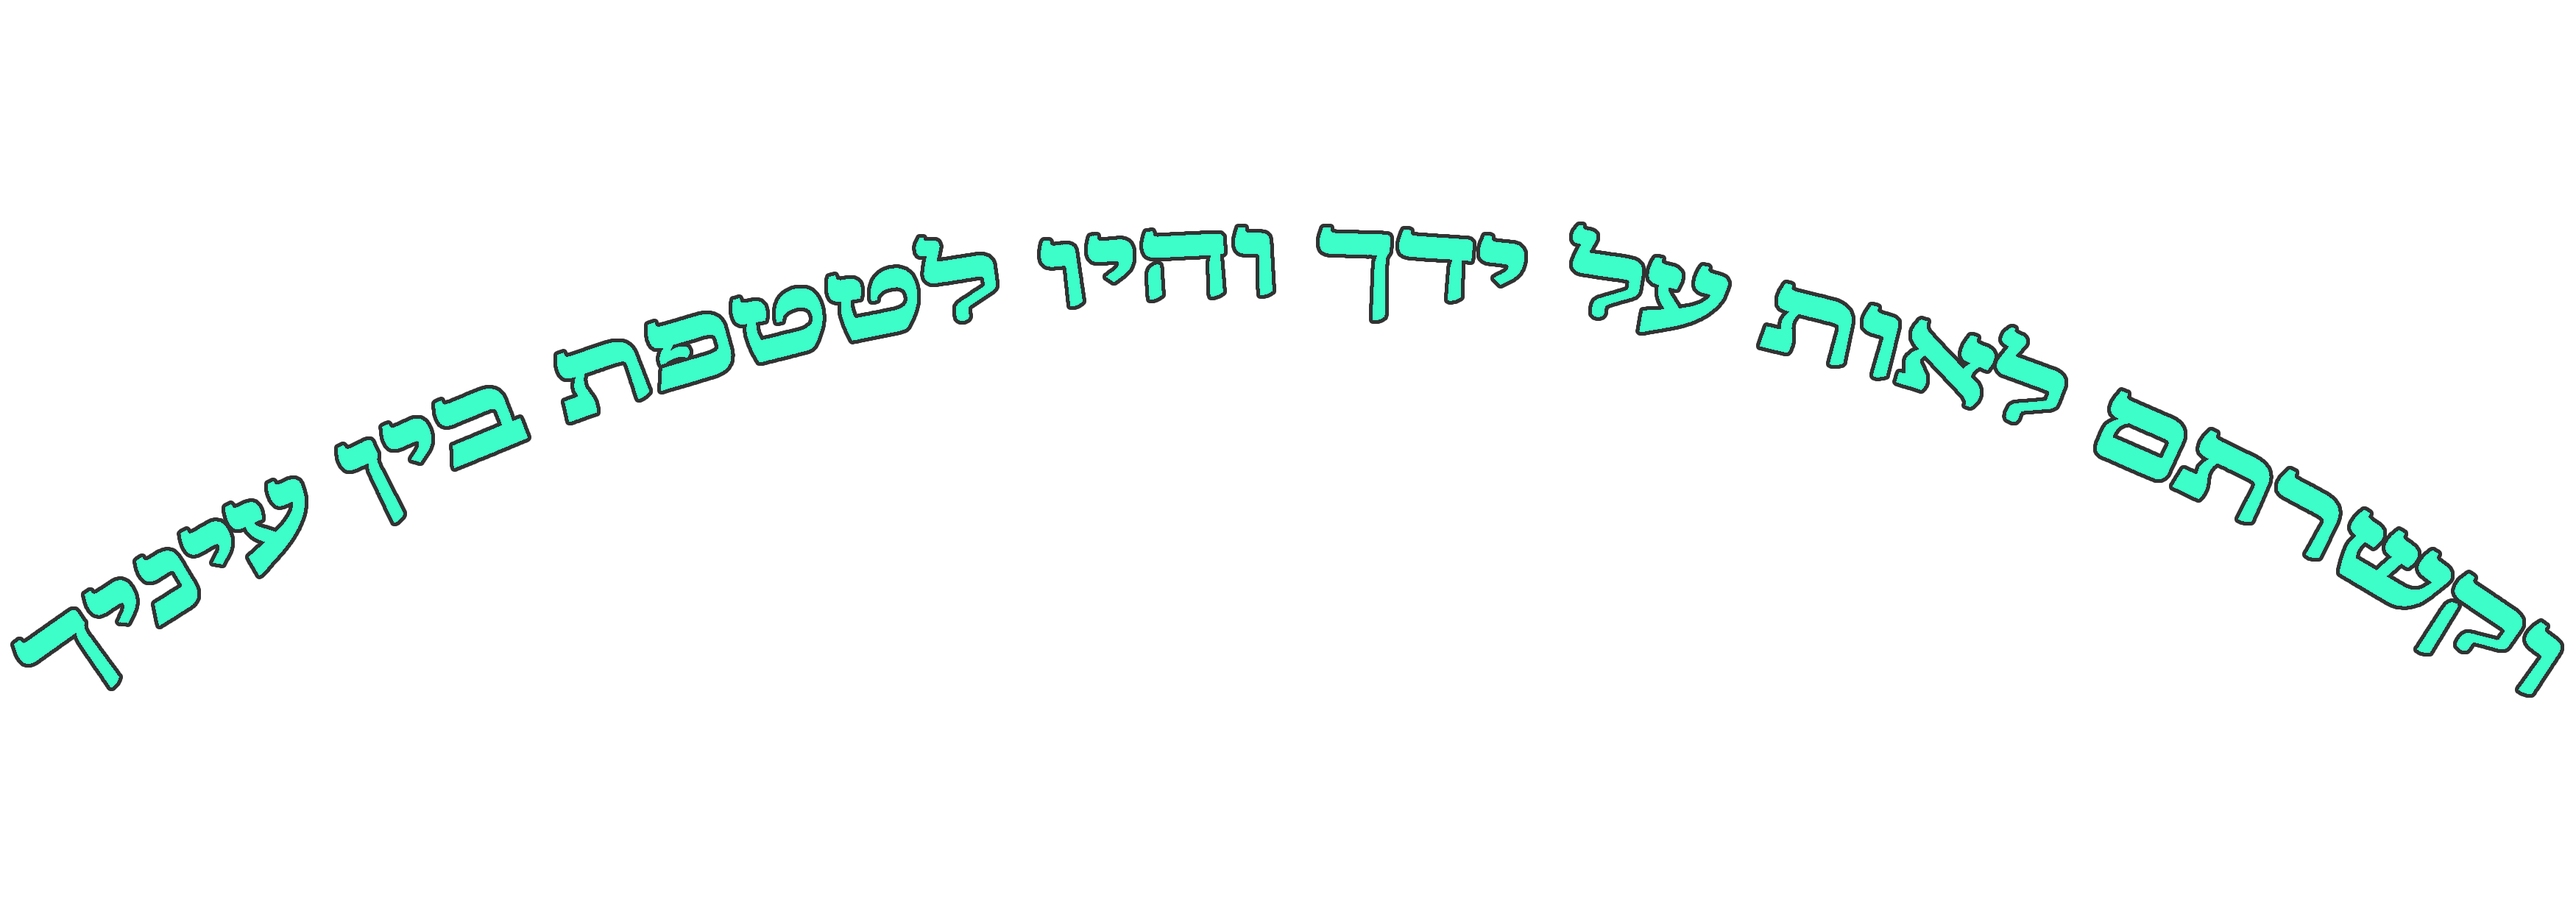
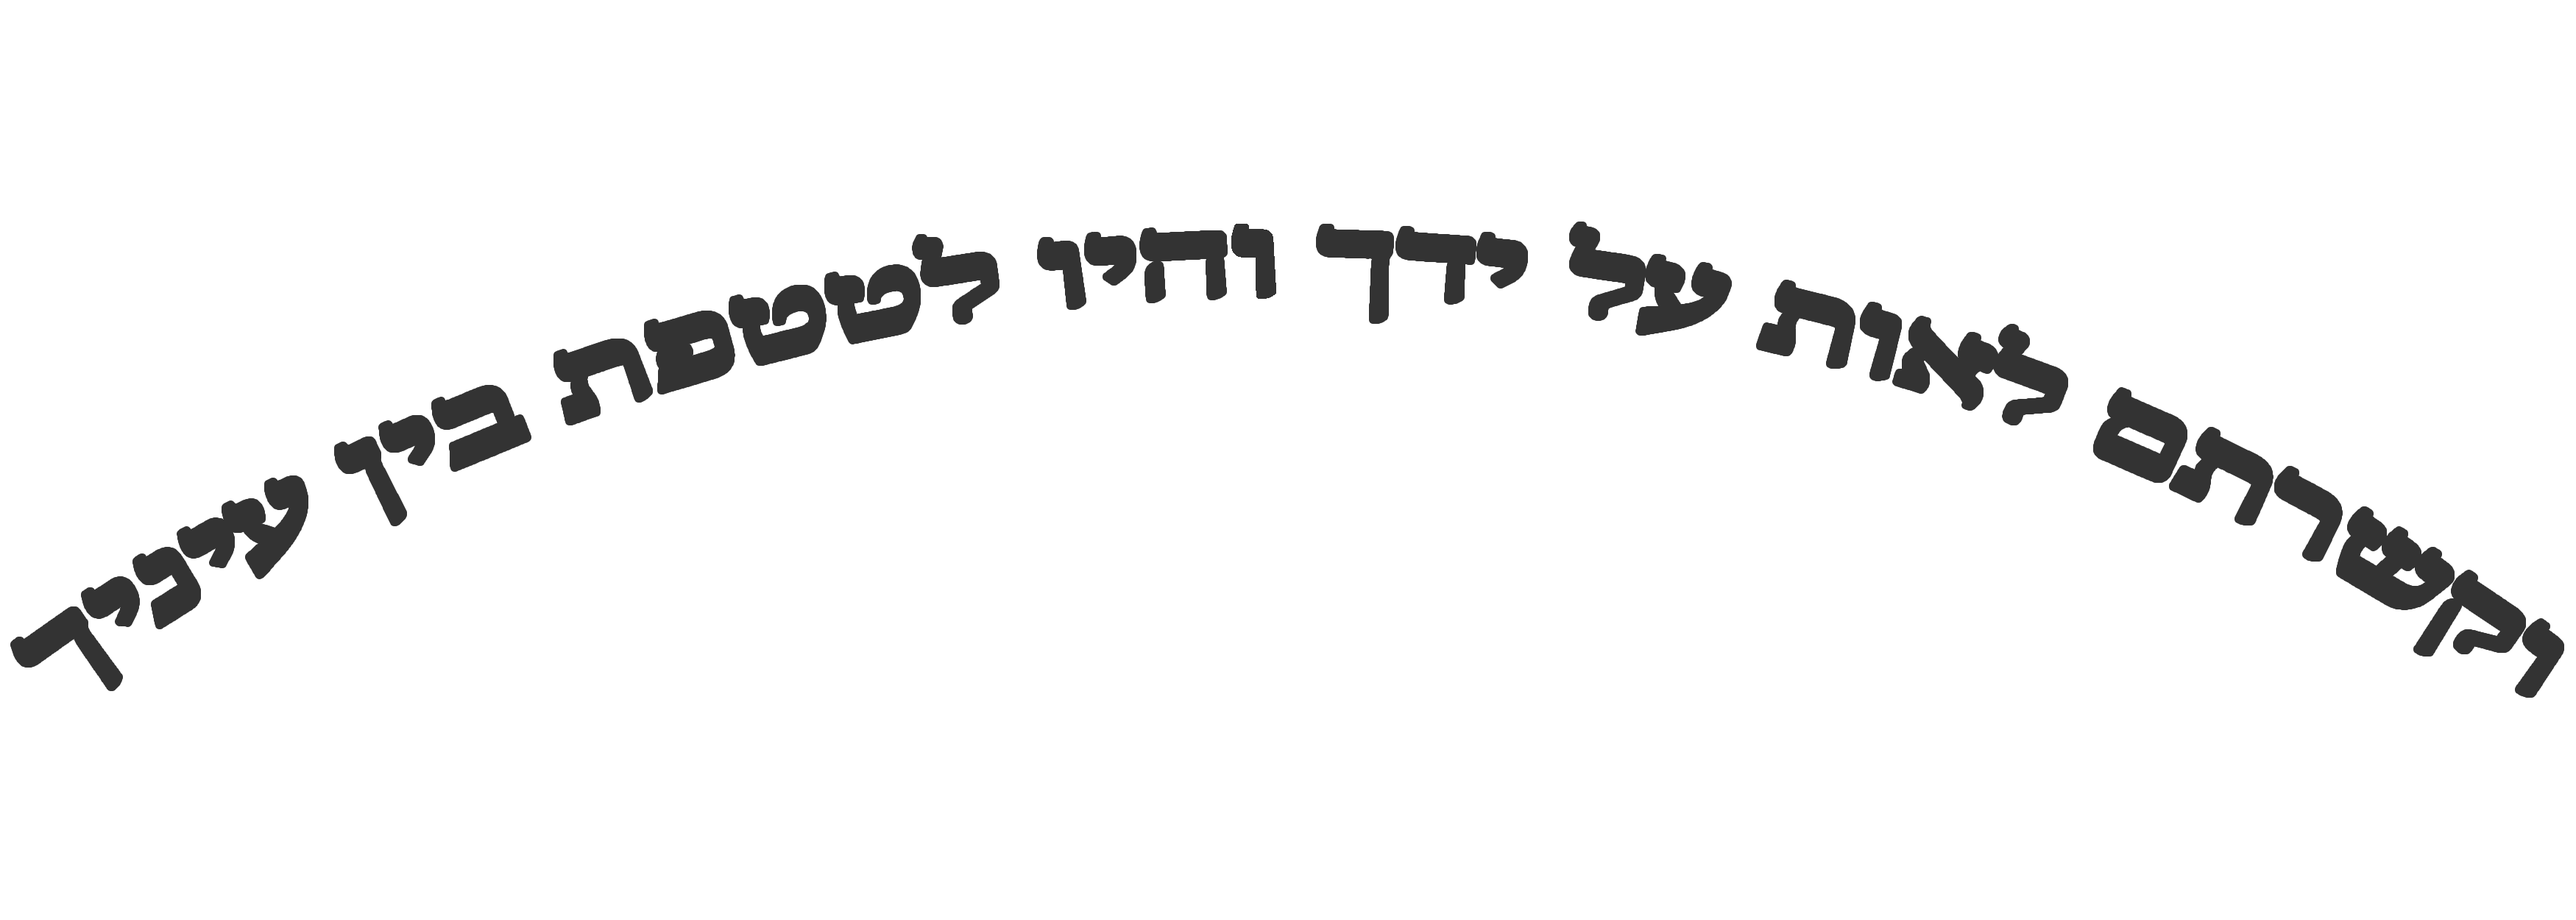
changement de preview

Changed region(s): [[0.0, 0.2496, 0.9966, 0.7488]]

diff --git a/css/mobile.css b/css/mobile.css
@@ -12,15 +12,28 @@
 #overlay img{
     width: 80%;
     height: auto;
+
     margin-bottom: 0.5rem;
 
 }
 
+#divOverlay{
+    display: flex;
+    align-items: center;
+    justify-content: center;
+    flex-direction: column;
+}
+
 .txtOverlay{
     font-family: "tag", sans-serif;
-    font-size: 2.5rem;
+    font-size: 4rem;
     color: #000000;
-    margin-bottom: 1.2rem;
+    margin-bottom: 2rem;
+    text-shadow:
+            -3px -3px 0 #ffffff,
+            3px -3px 0 #ffffff,
+            -3px  3px 0 #ffffff,
+            3px  3px 0 #ffffff; /* Bordure noire */
 }
 
 .btnLink {
@@ -30,7 +43,7 @@
     color: #000000;
     border-radius: 0.2rem;
     margin: 2.2rem;
-    border: 2px solid #333333; /* Ajoute une bordure blanche de 2 pixels */
+    border: 2px solid #282828; /* Ajoute une bordure blanche de 2 pixels */
     text-decoration: none;
     background-color: transparent;
     transition: background-color 0.5s ease, color 0.5s ease, border-color 0.5s ease, transform 0.5s ease;
@@ -38,8 +51,8 @@
 
 .btnLink:hover {
     background-color: #ffffff;
-    color: #333333;
-    border: 2px solid #333333; /* Ajoute une bordure noire de 2 pixels */
+    color: #282828;
+    border: 2px solid #282828; /* Ajoute une bordure noire de 2 pixels */
     transform: scale(1.05); /* Légère mise à l'échelle pour un effet de grossissement */
 }
 
@@ -54,7 +67,7 @@
 }
 .elementDecompte{
     margin-right: 1rem;
-    border: 3px solid #00FF98FF;
+    border: 3px solid #282828;
     border-radius: 10px;
     width: 70px; /* Largeur fixe pour une taille uniforme */
     height: 70px; /* Hauteur fixe pour une taille uniforme */
@@ -64,7 +77,7 @@
     flex-direction: column;
 }
 .elementDecompte2{
-    border: 3px solid #00FF98FF;
+    border: 3px solid #282828;
     border-radius: 10px;
     width: 70px; /* Largeur fixe pour une taille uniforme */
     height: 70px; /* Hauteur fixe pour une taille uniforme */
@@ -148,12 +161,12 @@
 .txtItalic {
     font-family: tag3 , sans-serif;
     font-size: 3rem;
-    color: rgba(0, 255, 152);
+    color: #282828;
     text-shadow:
-            -2px -2px 0 #333333,
-            2px -2px 0 #333333,
-            -2px  2px 0 #333333,
-            2px  2px 0 #333333; /* Bordure noire */
+            -2px -2px 0 #ffffff,
+            2px -2px 0 #ffffff,
+            -2px  2px 0 #ffffff,
+            2px  2px 0 #ffffff; /* Bordure noire */
     margin-bottom: 1.5rem;
 }
 
@@ -162,8 +175,13 @@
     font-family: tagText, sans-serif;
     font-style: italic;
     font-size: 6.5vw;
-    color: #333333;
+    color: #282828;
     margin-bottom: 0.6rem;
+    text-shadow:
+            -2px -2px 0 #ffffff,
+            2px -2px 0 #ffffff,
+            -2px  2px 0 #ffffff,
+            2px  2px 0 #ffffff; /* Bordure noire */
 
 }
 
@@ -173,7 +191,12 @@
     font-weight: bold;
     font-size: 1.6rem;
     margin-bottom: 0.5rem;
-    color: #333333;
+    color: #282828;
+    text-shadow:
+            -2px -2px 0 #ffffff,
+            2px -2px 0 #ffffff,
+            -2px  2px 0 #ffffff,
+            2px  2px 0 #ffffff; /* Bordure noire */
 }
 
 .titre {
@@ -183,16 +206,16 @@
     flex-direction: column;
     font-family: "tag3", sans-serif;
     font-size: 20vw;
-    color: #00FF98FF;
+    color: #282828;
     margin-bottom: 2rem;
     /*text-shadow: 0 0 10px rgba(0, 255, 152, 0.44),*/
     /*0 0 20px rgba(0, 253, 118, 0.37),*/
     /*0 0 30px rgba(0, 251, 50, 0.2);*/
     text-shadow:
-            -2px -2px 0 #333333,
-            2px -2px 0 #333333,
-            -2px  2px 0 #333333,
-            2px  2px 0 #333333; /* Bordure noire */}
+            -2px -2px 0 #ffffff,
+            2px -2px 0 #ffffff,
+            -2px  2px 0 #ffffff,
+            2px  2px 0 #ffffff; /* Bordure noire */}
 
 /* Fade-in class when elements are in view */
 .fade-in-visible {
@@ -202,6 +225,8 @@
 .oukchartam{
     width: 100%;
     height: auto;
+    filter: drop-shadow(1px 1px 0 #ffffff)
+    drop-shadow(-1px -1px 0 #ffffff);
 }
 
 form {
@@ -220,7 +245,7 @@ form label {
     font-family: DMSerif, sans-serif;
     font-size: 1.2rem;
     margin-bottom: 0.5rem;
-    color: #333333;
+    color: #282828;
 }
 
 .form-group {
@@ -229,11 +254,11 @@ form label {
 }
 
 label{
-    color: #333333;
+    color: #282828;
 }
 
 .checkbox-group {
-    color: #333333;
+    color: #282828;
     display: flex;
     align-items: center;
     margin-bottom: 1rem;
@@ -273,7 +298,7 @@ form input[type="submit"] {
 }
 
 form input[type="submit"]:hover {
-    background-color: #333333;
+    background-color: #282828;
     font-size: 1rem;
     font-family: DMSerif, sans-serif;
     padding: 0.8rem ;

diff --git a/index.html b/index.html
@@ -6,7 +6,7 @@
     <meta name="viewport" content="width=device-width, initial-scale=1.0">
     <title>Benjamin Khayat</title>
 
-    <meta name="description" content="Bar-Mitsvah Mickael Chalom">
+    <meta name="description" content="Bar-Mitsvah Benjamin Khayat">
 
     <!-- Balises Open Graph -->
     <meta property="og:title" content="Mickaël Chalom">
@@ -44,10 +44,10 @@
 
 <div id="overlay">
 
-    <div id="divOverlay">
+    <div id="divOverlay" >
 
-        <img src="/img/bkLogo.png">
-        <a class="txtOverlay">BENJAMIN KHAYAT</a>
+<!--        <img src="/img/bkLogo.png">-->
+        <a class="txtOverlay">BENJAMIN </a> <a class="txtOverlay">KHAYAT</a>
 
         <br>
 
@@ -78,7 +78,6 @@
         <a class=" fade-in txtDroit" style="font-family: 'torah sofer',sans-serif;margin-bottom: 0 ; font-size: 1.2rem">d"cb</a>
 
         <img class="fade-in oukchartam" src="/img/oukchartamDore.png">
-        <a class="fade-in txtDroit">Deborah, Séverine,</a>
         <a class="fade-in txtDroit"> Levana et Gabriel</a>
         <a class="fade-in txtDroit"> ont la joie de vous faire part de la</a>
         <a class="fade-in txtDroitGras"> Bar mitzvah de</a>
@@ -88,8 +87,8 @@
 
         <a class="fade-in txtDroit"> Qui aura lieu </a>
         <a class="fade-in txtDroitGras">le 03 Avril 2025</a>
-
-
+        <br>
+        <i class="fa-solid fa-angles-down txtDroit" style="font-size: 4rem" ></i>
 
     </div>
 
@@ -176,7 +175,7 @@
 
     <div class="fade-in element">
         <a class=" titre" >RECEPTION</a>
-        <a class="txtDroit">Deborah et Severine</a>
+        <a class="txtDroit">Levana et Gabriel</a>
         <a class="txtDroit">seraient heureux de vous recevoir le</a>
 
         <a class="txtDroitGras" >Dimanche 6 Avril 2025</a>

diff --git a/css/commun.css b/css/commun.css
@@ -91,7 +91,7 @@
 
 /* Styles for the overlay */
 #overlay {
-  background-image: url("/img/paterneBlancPeinture.jpg");
+  background-image: url("/img/peinture.jpg");
   background-size: cover;
   background-position: top;
   position: fixed;
@@ -121,7 +121,7 @@ body{
   margin: 0 0 0 0;
   padding: 0 0 0 0;
   background-size: cover;
-  background-image: url("/img/paterneBlancPeinture.jpg");
+  background-image: url("/img/peinture.jpg");
 
 }
 
@@ -145,7 +145,7 @@ span {
 }
 
 #principale{
-  background-image: url("/img/paterneBlancPeinture.jpg");
+  background-image: url("/img/peinture.jpg");
   background-size: contain;
   width: 100%;
   height: 100%;
